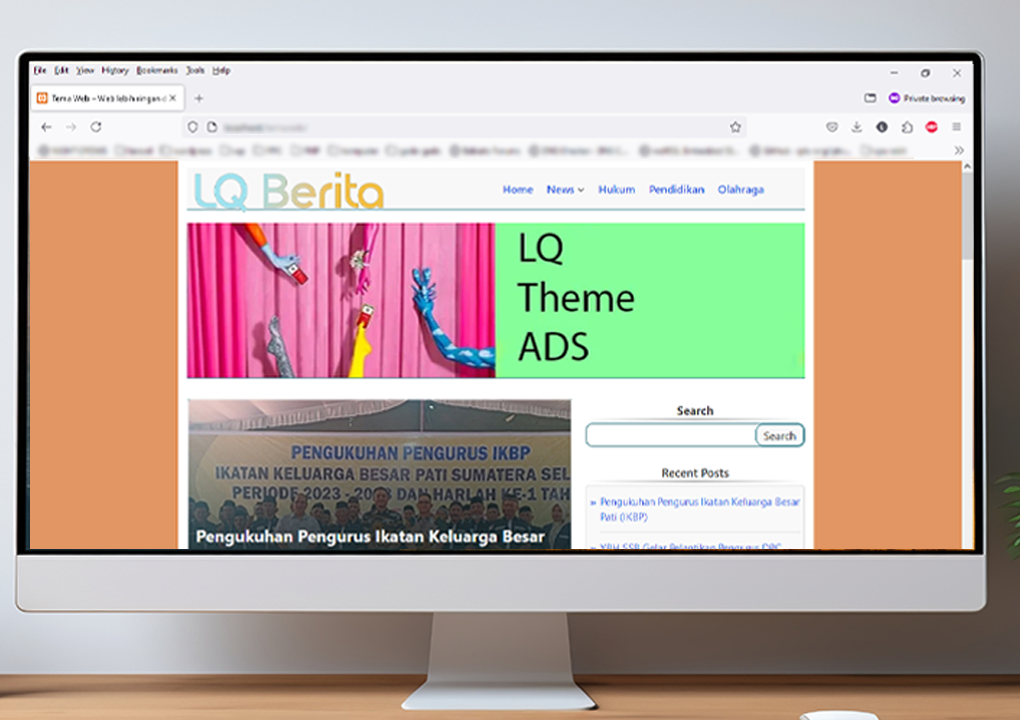
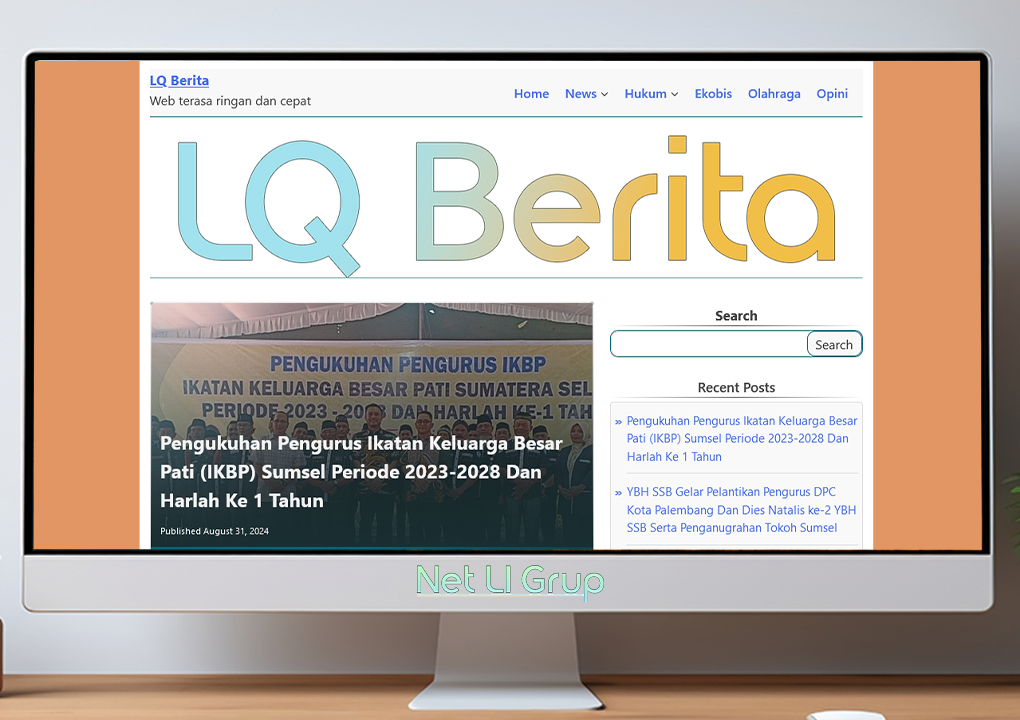
initial commit

diff --git a/style.css b/style.css
@@ -530,7 +530,7 @@ figure {
 }
 
 table {
-	margin: 0 0 1.5em;
+	margin: 0 0 0.5em;
 	width: 100%;
 }
 
@@ -1444,6 +1444,33 @@ ul.index-page-numbers { margin: 0 0 0.3em 0.3em; }
 	display: table;
 	clear: both;
 }
+.header_block {
+	margin-top: 10px;
+	margin-bottom: 10px;
+	width: 100%;
+	display: flex;
+	flex-direction: column;
+	clear: both;
+	justify-content: center;
+	box-shadow: 0 1px 0 0 rgb(9, 100, 115);
+  }
+  
+.header_block .header-image {
+	  position: relative;
+	  padding-top: 0;
+	  padding-bottom: 0;
+	  content: " ";
+	  display: flex;
+	  flex-direction: column;
+	  
+}
+.header_block figure {margin:0;}
+  
+.header_block .header-image img {
+	width: 100%;
+	display: block;
+}
+
 .banner-image {
 	margin-top: 10px;
 	margin-bottom: 10px;

diff --git a/inc/lqbtheme-customizer.php b/inc/lqbtheme-customizer.php
@@ -62,7 +62,7 @@ $sections[] = array(
     'title'       => __( 'Banner Under Menu', 'lq-berita' ),
     'priority'    => 15,
     'panel'       => $panel_banner,
-    'description' => __( 'Enter the Google AdSense code or other advertising code<br> Example : <br>&lt;img decoding="async" loading="lazy" src="https://lamanqu.com/wp-content/uploads/2023/03/selamat-menjalankan-ibadah-puasa.jpg" alt="banner" class="wp-image-7010"sizes="(max-width: 1024px) 100vw, 1024px" width="1024" height="168"&gt;', 'lq-berita' ),
+    'description' => __( 'Enter the Google AdSense code or other advertising code<br> Example : <br>&lt;img decoding="async" loading="lazy" src="https://netligrup.com/wp-content/uploads/2024/10/banner-ads.png" alt="banner" sizes="(max-width: 1028px) 100vw, 1028px" width="1028" height="260"&gt;', 'lq-berita' ),
 );
 
 $options[ $lqbprefix . '_undermenu' ] = array(
@@ -81,7 +81,7 @@ $sections[] = array(
     'title'       => __( 'Banner Under Post', 'lq-berita' ),
     'priority'    => 15,
     'panel'       => $panel_banner,
-    'description' => __( 'Enter the Google AdSense code or other advertising code<br> Example : <br>&lt;img decoding="async" loading="lazy" src="https://lamanqu.com/wp-content/uploads/2023/03/selamat-menjalankan-ibadah-puasa.jpg" alt="banner" class="wp-image-7010"sizes="(max-width: 1024px) 100vw, 1024px" width="1024" height="168"&gt;', 'lq-berita' ),
+    'description' => __( 'Enter the Google AdSense code or other advertising code<br> Example : <br>&lt;img decoding="async" loading="lazy" src="https://netligrup.com/wp-content/uploads/2024/10/banner-ads.png" alt="banner" sizes="(max-width: 1028px) 100vw, 1028px" width="1028" height="260"&gt;', 'lq-berita' ),
 );
 
 $options[ $lqbprefix . '_underpost' ] = array(

diff --git a/inc/template-functions.php b/inc/template-functions.php
@@ -205,7 +205,7 @@ if ( ! function_exists( 'berita_undermenu' ) ) {
 			echo '
 						<div class="widget_block">
 							<figure class="banner-image size-large">';
-			echo '<img decoding="async" loading="lazy" src="https://lamanqu.com/wp-content/uploads/2024/09/banner-ads.jpg" alt="banner" class="wp-image-7010" sizes="(max-width: 1024px) 100vw, 1024px" width="1024" height="168">';
+			echo '<img decoding="async" loading="lazy" src="https://netligrup.com/wp-content/uploads/2024/10/banner-ads.png" alt="banner" sizes="(max-width: 1024px) 100vw, 1024px" width="1024" height="168">';
 			echo '			</figure>
 						</div>
 					';
@@ -235,7 +235,7 @@ if ( ! function_exists( 'berita_underpost' ) ) {
 			echo '
 						<div class="widget_block">
 							<figure class="banner-image size-large">';
-			echo '<img decoding="async" loading="lazy" src="https://lamanqu.com/wp-content/uploads/2024/09/banner-ads.jpg" alt="banner" class="wp-image-7010" sizes="(max-width: 1024px) 100vw, 1024px" width="1024" height="168">';
+			echo '<img decoding="async" loading="lazy" src="https://netligrup.com/wp-content/uploads/2024/10/banner-ads.png" alt="banner" sizes="(max-width: 1024px) 100vw, 1024px" width="1024" height="168">';
 			echo '			</figure>
 						</div>
 					';

diff --git a/header.php b/header.php
@@ -171,9 +171,9 @@
 				
 			</header><!-- #masthead -->
 		<?php } ?>
-		<div class="widget_block">
-			<figure class="banner-image size-large">
-				<?php the_header_image_tag( array( 'width' => '1024', 'flex-width'  => true, ) ); ?>
+		<div class="header_block">
+			<figure class="header-image size-large">
+				<?php the_header_image_tag( array( 'flex-width'  => true, ) ); ?>
 			</figure>
 		</div>
 		<?php do_action( 'berita_undermenu' ); ?>

diff --git a/functions.php b/functions.php
@@ -124,7 +124,7 @@ add_action( 'after_setup_theme', 'berita_setup' );
  * @global int $content_width
  */
 function berita_content_width() {
-	$GLOBALS['content_width'] = apply_filters( 'berita_content_width', 640 );
+	$GLOBALS['content_width'] = apply_filters( 'berita_content_width', 720 );
 }
 add_action( 'after_setup_theme', 'berita_content_width', 0 );
 

diff --git a/inc/custom-header.php b/inc/custom-header.php
@@ -24,7 +24,7 @@ function berita_custom_header_setup() {
 			array(
 				'default-image'      => '',
 				'default-text-color' => '000000',
-				'width'              => 1000,
+				'width'              => 1280,
 				'height'             => 250,
 				'flex-height'        => true,
 				'wp-head-callback'   => 'berita_header_style',

diff --git a/template-parts/content.php b/template-parts/content.php
@@ -56,7 +56,6 @@
 			<?php berita_entry_footer(); ?>
 		</footer><!-- .entry-footer -->
 		<div class="content-single-ads">
-            <div class="line-break"><hr></div>
             <?php do_action( 'berita_underpost' ); ?>
         </div>
 		<div class="content-single-recent">
